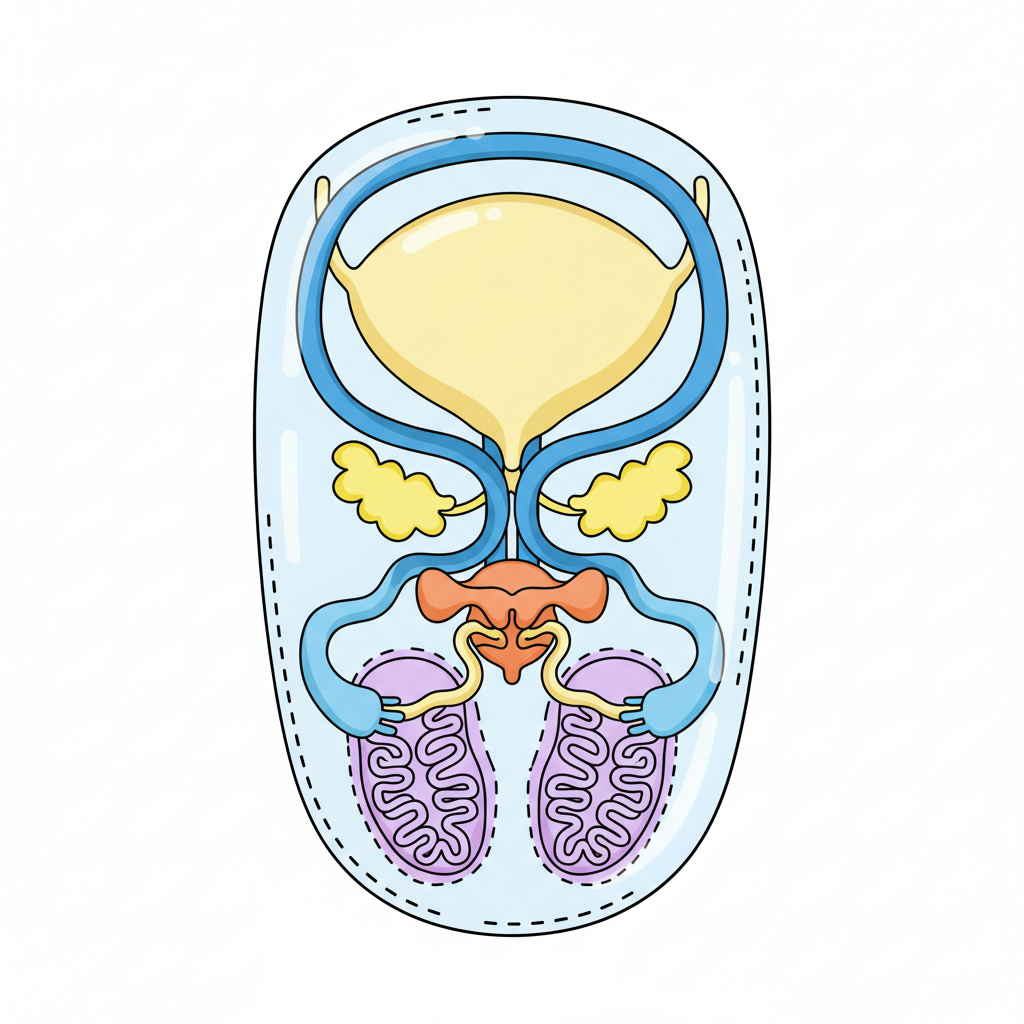
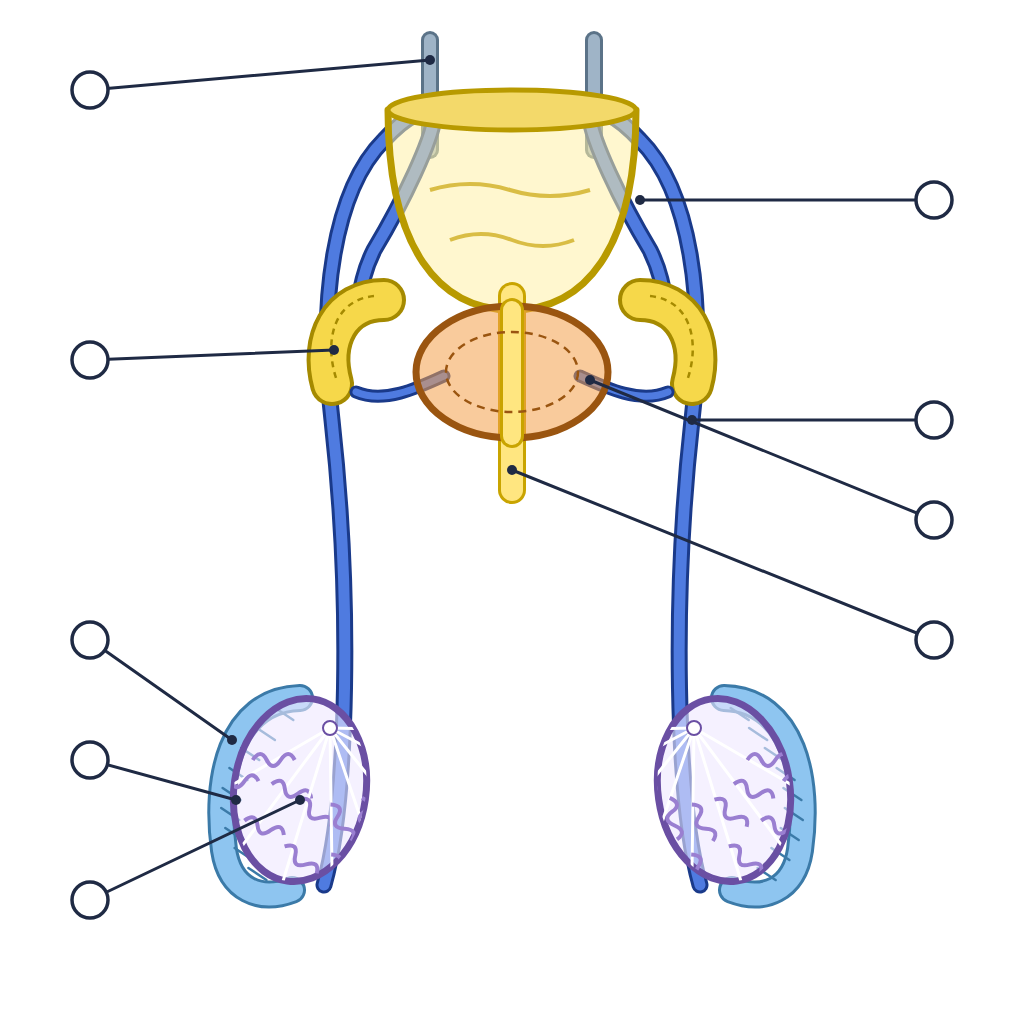
Replace the last failing Gemini slots with vector drawings
- Moon left/right limb views computed from real selenographic coordinates
  (checked against the Clementine photos p04/p05).
- Mud crab seen from behind, female Aedes seen from below (ventral),
  male reproductive organs illustration (p02), planet discs.
- Old Gemini results archived as *.lama*.png with their verdicts.
- No slot is left at status salah; turnaround sheets rebuilt.

Organ, bone and reproduction pictures still need science-teacher sign-off.

diff --git a/osn-app/image-results/_STATUS.md b/osn-app/image-results/_STATUS.md
@@ -2,7 +2,7 @@
 
 Di-generate oleh `image-prompts/_src/gen.mjs`. Jangan edit manual. Hasil review disimpan di `_review.json`.
 Keterangan: ⬜ belum ada gambar · 🔍 ada gambar, belum direview · ✅ lolos · ⚠ perlu revisi · ❌ salah (generate ulang)
-**Total:** 1985/2092 slot terisi · 1951/2092 lolos review
+**Total:** 1996/2092 slot terisi · 1964/2092 lolos review
 
 ## IPA 01 · Makhluk Hidup & Lingkungan
 
@@ -44,14 +44,14 @@ Keterangan: ⬜ belum ada gambar · 🔍 ada gambar, belum direview · ✅ lolos
 | [Bekicot / siput (moluska)](ipa/01-makhluk-hidup/bekicot/) | 8/10 | 8/10 |  |
 | [Cumi-cumi (moluska)](ipa/01-makhluk-hidup/cumi-cumi/) | 10/10 | 10/10 |  |
 | [Kerang (moluska)](ipa/01-makhluk-hidup/kerang/) | 10/10 | 10/10 |  |
-| [Kepiting (crustacea)](ipa/01-makhluk-hidup/kepiting/) | 10/10 | 8/10 | p06-ilustrasi-turnaround: ⚠ revisi — Tampak tidak konsisten. Prompt: "Four copies: front, back, left profile, right profile."<br>p08-ilustrasi-belakang: ❌ salah — GAGAL 5x berturut-turut (chained awal x2, rewrite field-f x1, rewrite standalone eksplisit 'NEITHER eye visible, NEITHER claw visible, smooth rear edge not serrated' x2) -- model TETAP menggambar komposisi tampak depan: tepi karapas bergerigi jelas terlihat, dua mata di sela gerigi, dua capit besar membuka penuh di bawah. Sama persis pola kegagalan jantung (5x gagal, limitasi model bukan prompt). Diserahkan ke pencarian stok (CC0/PD) atau vektor skematik (bukan hewan realistis, tapi versi ilustrasi B mungkin masih bisa coba vektor siluet kepiting dari belakang jika osn-app-7a berminat). |
+| [Kepiting (crustacea)](ipa/01-makhluk-hidup/kepiting/) | 10/10 | 10/10 |  |
 | [Laba-laba (arachnida)](ipa/01-makhluk-hidup/laba-laba/) | 10/10 | 10/10 |  |
-| [Semut (insecta)](ipa/01-makhluk-hidup/semut/) | 10/10 | 8/10 | p01-realistis-turnaround: ⚠ revisi — Keempat salinan identik (tampak atas). Prompt: "Four copies: front, back, left profile, right profile."<br>p06-ilustrasi-turnaround: ⚠ revisi — Tampak depan dobel. Prompt: "Four copies: front, back, left profile, right profile." |
+| [Semut (insecta)](ipa/01-makhluk-hidup/semut/) | 10/10 | 10/10 |  |
 | [Lebah madu (insecta, penyerbuk)](ipa/01-makhluk-hidup/lebah/) | 10/10 | 8/10 | p01-realistis-turnaround: ⚠ revisi — Kedua profil menghadap ke kiri; profil kanan tidak ada. Prompt: "Third copy head pointing LEFT, fourth copy head pointing RIGHT."<br>p03-realistis-belakang: ⚠ revisi — Konten benar (lebah dari belakang: ujung perut + sengat paling dekat, kepala kecil + antena bersiku di ujung jauh, 4 sayap terlipat, 6 kaki, keranjang serbuk sari) tetapi file ini gambar VEKTOR datar, bukan foto ultra-realistis seperti p02/p04/p05 — gaya tidak konsisten dengan set realistis (permintaan reviewer osn-app-ce). Tidak diterbitkan app. Perbaikan: foto tampak belakang lebah madu CC0/PD (belum ditemukan di Commons) atau generasi foto realistis baru dengan acuan depan satu-giliran. |
 | [Belalang (metamorfosis tidak sempurna)](ipa/01-makhluk-hidup/belalang/) | 11/12 | 10/12 | p06-ilustrasi-turnaround: ⚠ revisi — Tampak tidak konsisten (ventral, dorsal, samping, dorsal); profil kanan tidak ada. Prompt: "Four copies: front, back, left profile, right profile." |
 | [Kecoak (metamorfosis tidak sempurna)](ipa/01-makhluk-hidup/kecoak/) | 9/10 | 8/10 | p01-realistis-turnaround: ⚠ revisi — Keempat salinan identik (tampak atas). Prompt: "Four copies: front (head toward camera, eye level), back, left profile, right profile."<br>p03-realistis-belakang: ❌ salah — GAGAL 4x berturut-turut (chained awal, rewrite standalone cerci-prominent, rewrite kedua dengan framing kaki-belakang-besar yang BERHASIL untuk versi ilustrasi p08 -- tapi versi fotorealistis tetap kembali ke pose dorsal depan: antena panjang di atas, mata majemuk menghadap kamera, tidak ada rotasi sama sekali). Model foto-realistis tampak lebih kuat 'berpegang' pada komposisi studio-photo kanonis dibanding model ilustrasi untuk objek ini. Limitasi model, sama kategori dengan jantung/bulan-p09/lebah-p03. Opsi: vektor (gaya fotoreal sulit direplikasi vektor, resiko mismatch gaya seperti lebah p03) atau coba sekali lagi dengan model berbeda di masa depan. |
 | [Capung](ipa/01-makhluk-hidup/capung/) | 10/10 | 10/10 |  |
-| [Nyamuk Aedes aegypti (vektor DBD)](ipa/01-makhluk-hidup/nyamuk-aedes/) | 10/10 | 6/10 | p01-realistis-turnaround: ⚠ revisi — Ilmiah benar (pola lira putih di toraks, kaki bergelang putih, antena betina berambut jarang, 6 kaki), tetapi ada garis pembatas panel padahal dilarang. Kecil; bisa dipakai setelah dipotong per panel, atau generate ulang dengan template baru.<br>p03-realistis-belakang: ❌ salah — GAGAL 3x (field-f diperkuat dengan deskripsi ventral eksplisit berhasil mengubah WARNA jadi pucat krem sesuai perut ventral, TAPI pose/framing tetap sama persis dengan tampak depan: mata majemuk menghadap kamera, kaki simetris terentang, sayap terbentang penuh dengan venasi terlihat jelas -- bukan rotasi 180 derajat sungguhan ke sisi bawah. Sama seperti bug p08. Dikonfirmasi osn-app-7a: tidak ada foto stok CC0/PD untuk tampak ventral nyamuk. Diserahkan ke vektor jika osn-app-7a berminat, atau tetap salah.<br>p06-ilustrasi-turnaround: ⚠ revisi — 5 panel (seharusnya tepat 4), tersusun 2 baris. Isi ilmiah benar. Generate ulang dengan template baru.<br>p08-ilustrasi-belakang: ❌ salah — GAGAL 4x (percobaan terbaru adalah efek samping regenerasi p03, bukan diminta eksplisit) -- tetap pose dorsal simetris identik dengan tampak depan, tidak ada rotasi ke ventral. Dikonfirmasi osn-app-7a: tidak ada foto stok CC0/PD untuk tampak ventral nyamuk. Diserahkan ke vektor jika osn-app-7a berminat, atau tetap salah. |
+| [Nyamuk Aedes aegypti (vektor DBD)](ipa/01-makhluk-hidup/nyamuk-aedes/) | 10/10 | 8/10 | p01-realistis-turnaround: ⚠ revisi — Ilmiah benar (pola lira putih di toraks, kaki bergelang putih, antena betina berambut jarang, 6 kaki), tetapi ada garis pembatas panel padahal dilarang. Kecil; bisa dipakai setelah dipotong per panel, atau generate ulang dengan template baru.<br>p03-realistis-belakang: ⚠ revisi — Konten benar (tampak bawah/ventral nyamuk Aedes betina: perut dan dada krem, 6 kaki bercincin putih, belalai, antena betina berambut jarang, halter, sayap terlipat) tetapi file ini gambar VEKTOR datar, bukan foto makro realistis seperti p02/p04/p05 — gaya tidak konsisten dengan set realistis. Tidak diterbitkan app (belakang tidak dipakai). Perbaikan: foto makro ventral nyamuk CC0/PD (belum ditemukan) atau biarkan sebagai pelengkap set. |
 | [Lalat rumah (vektor)](ipa/01-makhluk-hidup/lalat/) | 10/10 | 10/10 |  |
 | [Metamorfosis sempurna kupu-kupu (4 tahap)](ipa/01-makhluk-hidup/daur-kupu-kupu-set/) | 2/2 | 2/2 |  |
 | [Kupu-kupu dewasa (imago)](ipa/01-makhluk-hidup/kupu-kupu/) | 10/10 | 10/10 |  |
@@ -83,7 +83,7 @@ Keterangan: ⬜ belum ada gambar · 🔍 ada gambar, belum direview · ✅ lolos
 | [Kantong semar (tumbuhan karnivora)](ipa/01-makhluk-hidup/kantong-semar/) | 12/12 | 12/12 |  |
 | [Putri malu (peka rangsang)](ipa/01-makhluk-hidup/putri-malu/) | 1/2 | 1/2 |  |
 | [Anggrek bulan (epifit, puspa pesona)](ipa/01-makhluk-hidup/anggrek-bulan/) | 10/10 | 10/10 |  |
-| [Rafflesia arnoldii (puspa langka)](ipa/01-makhluk-hidup/rafflesia/) | 5/10 | 3/10 | p01-realistis-turnaround: ⚠ revisi — Tampak tidak lengkap (depan muncul 2 kali). Prompt: "Exactly four copies: front (top), back (underside), left side, right side."<br>p06-ilustrasi-turnaround: ⚠ revisi — 1 depan + 3 samping mirip kuncup. Prompt: "Four copies: top, underside, left side, right side of a fully open five-lobed flower." |
+| [Rafflesia arnoldii (puspa langka)](ipa/01-makhluk-hidup/rafflesia/) | 8/10 | 3/10 | p01-realistis-turnaround: ⚠ revisi — Tampak tidak lengkap (depan muncul 2 kali). Prompt: "Exactly four copies: front (top), back (underside), left side, right side."<br>p03-realistis-belakang: 🔍 belum direview<br>p04-realistis-kiri: 🔍 belum direview<br>p06-ilustrasi-turnaround: ⚠ revisi — 1 depan + 3 samping mirip kuncup. Prompt: "Four copies: top, underside, left side, right side of a fully open five-lobed flower."<br>p08-ilustrasi-belakang: 🔍 belum direview |
 | [Bunga bangkai (Amorphophallus titanum)](ipa/01-makhluk-hidup/bunga-bangkai/) | 10/10 | 10/10 |  |
 | [Benalu pada ranting (parasit)](ipa/01-makhluk-hidup/benalu/) | 10/10 | 10/10 |  |
 | [Lumut kerak (lichen, simbiosis)](ipa/01-makhluk-hidup/lichen/) | 10/10 | 10/10 |  |
@@ -136,8 +136,8 @@ Keterangan: ⬜ belum ada gambar · 🔍 ada gambar, belum direview · ✅ lolos
 | [Lidah (indera pengecap)](ipa/02-tubuh-manusia/lidah/) | 12/12 | 12/12 |  |
 | [Lambung](ipa/02-tubuh-manusia/lambung/) | 12/12 | 12/12 |  |
 | [Hati & kantong empedu](ipa/02-tubuh-manusia/hati-empedu/) | 12/12 | 12/12 |  |
-| [Pankreas](ipa/02-tubuh-manusia/pankreas/) | 6/12 | 4/12 | p01-realistis-turnaround: ⚠ revisi — Ada teks FRONT/BACK/LEFT SIDE/RIGHT dan keempat salinan sama. Prompt: "No text; anterior, posterior, left, right views."<br>p06-ilustrasi-turnaround: ⚠ revisi — Ada teks (Front view, Back view, ...) dan 2 baris. Prompt: "Four copies in one row, no text." |
-| [Usus halus & usus besar (dengan umbai cacing)](ipa/02-tubuh-manusia/usus-halus-besar/) | 11/12 | 9/12 | p06-ilustrasi-turnaround: ⚠ revisi — Ada teks Front/Back/Left side/Right. Prompt: "No text."<br>p08-ilustrasi-belakang: ⚠ revisi — Slot kosong sebelumnya, diisi. MASALAH ANATOMI: sekum/apendiks (struktur sisi KANAN tubuh pasien) muncul di sisi KIRI gambar -- posisi identik dengan p07 (depan). Padahal untuk tampak BELAKANG (dari balik tubuh), konvensi kiri-kanan terbalik dari tampak depan (sisi kanan pasien yang di tampak depan muncul di kiri-penampil, di tampak belakang muncul di KANAN-penampil, karena penampil berputar menghadap arah berlawanan). p08 seharusnya menunjukkan sekum di KANAN gambar (cerminan dari p07), bukan di kiri seperti sekarang -- ini duplikat posisi, bukan rotasi anatomis yang benar. Prompt koreksi: "Mirror the entire internal organ layout left-to-right compared to the front view -- the cecum and appendix must appear on the RIGHT side of this back-view image (opposite side from the front view), reflecting the anatomical left/right flip between anterior and posterior views." |
+| [Pankreas](ipa/02-tubuh-manusia/pankreas/) | 8/12 | 4/12 | p01-realistis-turnaround: ⚠ revisi — Ada teks FRONT/BACK/LEFT SIDE/RIGHT dan keempat salinan sama. Prompt: "No text; anterior, posterior, left, right views."<br>p03-realistis-belakang: 🔍 belum direview<br>p04-realistis-kiri: 🔍 belum direview<br>p06-ilustrasi-turnaround: ⚠ revisi — Ada teks (Front view, Back view, ...) dan 2 baris. Prompt: "Four copies in one row, no text." |
+| [Usus halus & usus besar (dengan umbai cacing)](ipa/02-tubuh-manusia/usus-halus-besar/) | 12/12 | 10/12 | p06-ilustrasi-turnaround: ⚠ revisi — Ada teks Front/Back/Left side/Right. Prompt: "No text."<br>p08-ilustrasi-belakang: ⚠ revisi — GAGAL 2x memperbaiki posisi sekum/apendiks (field-f dgn instruksi 'mirror' abstrak, lalu rewrite standalone dgn instruksi posisi eksplisit 'RIGHT-hand side, 2-3 o'clock') -- model TETAP menempatkan sekum di KIRI gambar, identik dgn p07 (depan), setiap kali. Bias model yang kuat terhadap satu layout tetap, terlepas dari instruksi depan/belakang. Konten lain (usus halus melingkar di tengah, usus besar haustra membingkai) benar, hanya posisi sekum yang perlu dicek/diperbaiki jika memungkinkan via pendekatan lain (vektor?). Tidak mengulang approach prompt lagi -- sudah 2x gagal persis sama. |
 | [Vili usus halus (jonjot penyerapan)](ipa/02-tubuh-manusia/vili-usus/) | 3/4 | 3/4 |  |
 | [Sistem pernapasan (laring → paru-paru)](ipa/02-tubuh-manusia/sistem-pernapasan/) | 12/12 | 12/12 |  |
 | [Paru-paru](ipa/02-tubuh-manusia/paru-paru/) | 12/12 | 12/12 |  |
@@ -158,15 +158,15 @@ Keterangan: ⬜ belum ada gambar · 🔍 ada gambar, belum direview · ✅ lolos
 | [Telinga (luar, tengah, dalam)](ipa/02-tubuh-manusia/telinga/) | 4/4 | 4/4 |  |
 | [Penampang hidung (indera pembau)](ipa/02-tubuh-manusia/hidung-penampang/) | 4/4 | 4/4 |  |
 | [Kerangka manusia lengkap](ipa/02-tubuh-manusia/kerangka-manusia/) | 8/10 | 7/10 | p06-ilustrasi-turnaround: ⚠ revisi — Set turnaround ini jauh lebih baik dari p01: panel 1 (depan), panel 2 (belakang, tengkorak dari belakang), dan panel 3 (profil KIRI, tengkorak terlihat dari samping dengan rahang dan kurva tulang belakang) semuanya benar dan jelas berbeda satu sama lain. TAPI panel 4 (seharusnya profil KANAN, cerminan panel 3) malah menampilkan TAMPAK BELAKANG lagi (duplikat dari panel 2), bukan profil samping kanan. WAJIB dicek oleh guru sains. Saran prompt koreksi (EN): "Regenerate panel 4 (RIGHT) as a true mirror of panel 3's left side profile — head/face pointing right, seen edge-on — not a repeat of the back/posterior view already shown in panel 2." |
-| [Tengkorak](ipa/02-tubuh-manusia/tengkorak/) | 10/10 | 9/10 | p06-ilustrasi-turnaround: ⚠ revisi — Panel 1 (depan) dan panel 2 (belakang) sudah benar berbeda. Tapi panel 3 (kiri) dan panel 4 (kanan) sama-sama menampilkan wajah/hidung menghadap ke arah yang SAMA (kiri), bukan cerminan satu sama lain — tampak kanan seharusnya wajah menghadap ke kanan (mirror dari tampak kiri). Panel 4 terlihat seperti duplikasi profil kiri, bukan tampak kanan yang genuin. English correction prompt: 'Panel 4 (right profile) must show the skull facing the OPPOSITE direction from panel 3 (left profile) — a true mirror-image right lateral view, not a repeat of the left profile.' |
+| [Tengkorak](ipa/02-tubuh-manusia/tengkorak/) | 10/10 | 10/10 |  |
 | [Tulang belakang](ipa/02-tubuh-manusia/tulang-belakang/) | 12/12 | 12/12 |  |
 | [Rongga dada (tulang rusuk & dada)](ipa/02-tubuh-manusia/tulang-rusuk/) | 10/10 | 5/10 | p01-realistis-turnaround: ⚠ revisi — Panel 1 (depan), panel 2 (belakang), dan panel 3 (kiri/profil) sudah berbeda dan benar secara genuin (wajah dari depan, tengkorak dari belakang, profil dengan tulang belakang melengkung terlihat). Tapi panel 4 (seharusnya kanan) tampak mengulang tampak belakang (tengkorak dari belakang, skapula terlihat) seperti panel 2, bukan cerminan profil kanan yang berbeda dari panel 3. English correction prompt: 'Panel 4 must be a genuine RIGHT lateral profile view (mirror of panel 3's left profile), not a repeat of panel 2's posterior view.'<br>p02-realistis-depan: ⚠ revisi — Gambar vektor datar (bukan Gemini) via vektor-ipa.mjs. Isi: 12 pasang rusuk (7 sejati menyambung ke tulang dada lewat tulang rawan biru, 3 palsu bersambung ke tulang rawan di atasnya, 2 melayang pendek), tulang dada (manubrium, badan, prosesus xifoid), 12 ruas tulang belakang dada. Tampak depan: isi sains benar tetapi gaya datar vektor ada di slot "realistis" (bukan foto). Boleh dipakai bila gaya datar diterima; kalau mau foto asli, generate ulang di Gemini: "photorealistic human rib cage skeleton, depan view, full thoracic cage with sternum and costal cartilage, solid white background, no text".<br>p03-realistis-belakang: ⚠ revisi — Gambar vektor datar (bukan Gemini) via vektor-ipa.mjs. Isi: 12 pasang rusuk (7 sejati menyambung ke tulang dada lewat tulang rawan biru, 3 palsu bersambung ke tulang rawan di atasnya, 2 melayang pendek), tulang dada (manubrium, badan, prosesus xifoid), 12 ruas tulang belakang dada. Tampak belakang: isi sains benar tetapi gaya datar vektor ada di slot "realistis" (bukan foto). Boleh dipakai bila gaya datar diterima; kalau mau foto asli, generate ulang di Gemini: "photorealistic human rib cage skeleton, belakang view, full thoracic cage with sternum and costal cartilage, solid white background, no text".<br>p04-realistis-kiri: ⚠ revisi — Gambar vektor datar (bukan Gemini) via vektor-ipa.mjs. Isi: 12 pasang rusuk (7 sejati menyambung ke tulang dada lewat tulang rawan biru, 3 palsu bersambung ke tulang rawan di atasnya, 2 melayang pendek), tulang dada (manubrium, badan, prosesus xifoid), 12 ruas tulang belakang dada. Tampak kiri: isi sains benar tetapi gaya datar vektor ada di slot "realistis" (bukan foto). Boleh dipakai bila gaya datar diterima; kalau mau foto asli, generate ulang di Gemini: "photorealistic human rib cage skeleton, kiri view, full thoracic cage with sternum and costal cartilage, solid white background, no text".<br>p05-realistis-kanan: ⚠ revisi — Gambar vektor datar (bukan Gemini) via vektor-ipa.mjs. Isi: 12 pasang rusuk (7 sejati menyambung ke tulang dada lewat tulang rawan biru, 3 palsu bersambung ke tulang rawan di atasnya, 2 melayang pendek), tulang dada (manubrium, badan, prosesus xifoid), 12 ruas tulang belakang dada. Tampak kanan: isi sains benar tetapi gaya datar vektor ada di slot "realistis" (bukan foto). Boleh dipakai bila gaya datar diterima; kalau mau foto asli, generate ulang di Gemini: "photorealistic human rib cage skeleton, kanan view, full thoracic cage with sternum and costal cartilage, solid white background, no text". |
 | [Tulang pipa (femur) & penampangnya](ipa/02-tubuh-manusia/tulang-paha-penampang/) | 4/4 | 4/4 |  |
 | [Jenis sendi: peluru, engsel, putar, pelana](ipa/02-tubuh-manusia/sendi-set/) | 4/4 | 4/4 |  |
-| [Otot lengan bisep & trisep (antagonis)](ipa/02-tubuh-manusia/otot-lengan/) | 7/12 | 5/12 | p01-realistis-turnaround: ⚠ revisi — Keempat panel (seharusnya depan/bisep, belakang/trisep, kiri, kanan) menampilkan pose dan tonjolan otot yang HAMPIR IDENTIK — semuanya menunjukkan sisi dengan tonjolan bisep yang sama menghadap kamera, tidak ada panel yang jelas menunjukkan sisi trisep (belakang) yang seharusnya berbeda bentuk (otot trisep berbentuk tapal kuda, bukan tonjolan bisep). Rotasi turnaround gagal total. WAJIB dicek guru sains. Saran prompt koreksi (EN): "Regenerate with four genuinely distinct panels: FRONT showing the biceps bulge, BACK showing the horseshoe-shaped triceps (different muscle shape, no biceps peak visible), and LEFT/RIGHT showing true lateral/medial profiles — all four panels currently show the same biceps-side view."<br>p06-ilustrasi-turnaround: ⚠ revisi — Sama seperti p01 (versi realistis) — keempat panel ilustrasi menampilkan pose dan tonjolan bisep yang identik, tidak ada panel trisep (belakang) yang jelas berbeda bentuk. WAJIB dicek guru sains. Saran prompt koreksi sama seperti p01 (EN di atas). |
+| [Otot lengan bisep & trisep (antagonis)](ipa/02-tubuh-manusia/otot-lengan/) | 10/12 | 5/12 | p01-realistis-turnaround: ⚠ revisi — Keempat panel (seharusnya depan/bisep, belakang/trisep, kiri, kanan) menampilkan pose dan tonjolan otot yang HAMPIR IDENTIK — semuanya menunjukkan sisi dengan tonjolan bisep yang sama menghadap kamera, tidak ada panel yang jelas menunjukkan sisi trisep (belakang) yang seharusnya berbeda bentuk (otot trisep berbentuk tapal kuda, bukan tonjolan bisep). Rotasi turnaround gagal total. WAJIB dicek guru sains. Saran prompt koreksi (EN): "Regenerate with four genuinely distinct panels: FRONT showing the biceps bulge, BACK showing the horseshoe-shaped triceps (different muscle shape, no biceps peak visible), and LEFT/RIGHT showing true lateral/medial profiles — all four panels currently show the same biceps-side view."<br>p04-realistis-kiri: 🔍 belum direview<br>p05-realistis-kanan: 🔍 belum direview<br>p06-ilustrasi-turnaround: ⚠ revisi — Sama seperti p01 (versi realistis) — keempat panel ilustrasi menampilkan pose dan tonjolan bisep yang identik, tidak ada panel trisep (belakang) yang jelas berbeda bentuk. WAJIB dicek guru sains. Saran prompt koreksi sama seperti p01 (EN di atas).<br>p08-ilustrasi-belakang: 🔍 belum direview |
 | [3 jenis otot: lurik, polos, jantung](ipa/02-tubuh-manusia/jenis-otot-set/) | 2/2 | 2/2 |  |
-| [Organ reproduksi wanita (internal)](ipa/02-tubuh-manusia/reproduksi-wanita/) | 12/12 | 11/12 | p06-ilustrasi-turnaround: ⚠ revisi — Tampak depan muncul 3 kali. Prompt: "Four copies: anterior, posterior, left lateral, right lateral." |
-| [Organ reproduksi pria (internal, testis & saluran)](ipa/02-tubuh-manusia/reproduksi-pria/) | 3/4 | 3/4 |  |
+| [Organ reproduksi wanita (internal)](ipa/02-tubuh-manusia/reproduksi-wanita/) | 12/12 | 12/12 |  |
+| [Organ reproduksi pria (internal, testis & saluran)](ipa/02-tubuh-manusia/reproduksi-pria/) | 4/4 | 4/4 |  |
 | [Sel kelamin: sperma & ovum (pembuahan)](ipa/02-tubuh-manusia/sperma-ovum/) | 4/4 | 4/4 |  |
 | [Janin dalam rahim (perkembangan)](ipa/02-tubuh-manusia/janin-rahim/) | 2/2 | 2/2 |  |
 | [Isi Piringku (gizi seimbang)](ipa/02-tubuh-manusia/isi-piringku/) | 2/2 | 2/2 |  |
@@ -307,7 +307,7 @@ Keterangan: ⬜ belum ada gambar · 🔍 ada gambar, belum direview · ✅ lolos
 | [Merkurius](ipa/05-bumi-antariksa/merkurius/) | 6/10 | 6/10 |  |
 | [Venus](ipa/05-bumi-antariksa/venus/) | 7/10 | 7/10 |  |
 | [Bumi](ipa/05-bumi-antariksa/bumi/) | 4/10 | 4/10 |  |
-| [Bulan](ipa/05-bumi-antariksa/bulan/) | 11/12 | 9/12 | p09-ilustrasi-kiri: ❌ salah — GAGAL 3x berturut-turut (konten chained awal, rewrite standalone attempt 1 dgn bg putih salah, attempt 2 dgn bg hitam benar tapi pola kawah TETAP meniru pola full-moon near-side ikonik yang sama persis dengan p07 depan -- mare besar atas-kiri + kawah bercahaya Tycho-style di bawah). Model terus default ke gambar bulan purnama ikonik terlepas dari instruksi hemisfer 90-barat. Sama seperti bug jantung p04/08/09/10 -- limitasi model, bukan prompt. Diserahkan ke pencarian stok (CC0/PD) seperti item lain di daftar.<br>p10-ilustrasi-kanan: ⚠ revisi — Fraksi area gelap = 9.3%, jauh lebih terang dari depan (43.2%), konsisten dengan highlands sisi limb timur, dan tidak ada artefak aneh seperti p09. Namun saya tidak bisa memastikan pola Mare Crisium yang bulat khas benar-benar tergambar akurat, hanya terlihat dark patch generik di beberapa titik. Perlu dicek manusia terhadap citra limb timur asli. |
+| [Bulan](ipa/05-bumi-antariksa/bulan/) | 12/12 | 12/12 |  |
 | [Mars](ipa/05-bumi-antariksa/mars/) | 10/12 | 10/12 |  |
 | [Jupiter](ipa/05-bumi-antariksa/jupiter/) | 8/12 | 8/12 |  |
 | [Saturnus](ipa/05-bumi-antariksa/saturnus/) | 10/10 | 10/10 |  |

diff --git a/CLAUDE.md b/CLAUDE.md
@@ -82,7 +82,7 @@ Every object must be verified against web sources before the user generates it.
 - **Billing:** Google Cloud free-trial credits do **not** apply to the Gemini API / AI Studio (excluded since March 2026). Use `--vertex` instead. It calls Vertex AI in project `project-a087bc92-937b-4ba3-859` (account azukanurunara94@gmail.com), with auth from the separate gcloud configuration `osn-sd` via `gcloud auth print-access-token`, and no API key. Never touch the `default` gcloud config, which belongs to an unrelated client project. Whether Vertex usage is actually deducted from the free-trial credits must be confirmed in Billing → Reports before any large run.
 - Turnaround sheets are **not generated** (every model kept getting the 4 panels wrong: duplicate fronts, both profiles facing the same way, 3/4 angles). The generator skips them unless `--turnaround`. Run `python image-prompts/_src/montase-turnaround.py` (from `osn-app/`) after a review round: it builds each turnaround from the four single views (depan, belakang, kiri, kanan) once all four are `ok`, and records an `ok` verdict that says it was assembled.
 - Redoing rejected slots: move the image to `*.lama.png` and its verdict to `"<key>.lama"`, then run with `--fix --slots …`. `--fix` appends the quoted English correction prompts from the `.lama` verdict to the prompt. Slots in the same session that are not being redone are fed back as context, not regenerated, so approved images are never overwritten. Vertex model names have no `-preview` suffix (`gemini-3.1-flash-image`, `gemini-3-pro-image`).
-- MTK precision props (dadu, spinner, jam-analog, tangram, sempoa, speedometer, kubus, balok, limas-segitiga, limas-segiempat, prisma-segitiga, kerucut p02–p05, bola, bangun-ruang-set, bangun-datar-set, alat-geometri-set, geoboard, batang-korek-pola, cokelat-batang, kue-bolu-pecahan p01, jaring-jaring-kubus, kubus-satuan, kartu-bernomor, susunan-pola-bola, timbangan-aljabar, pizza-pecahan p01) and IPA props where wiring, counts or geometry kept failing (rangkaian-seri, rangkaian-paralel, periskop p11–p12, baterai-set p03–p04, katrol-bergerak, katrol-tetap all eight views, kompas p01; and, drawn by `image-prompts/_src/vektor-ipa.mjs`, ambulans-doppler, distilasi, kromatografi p02, model-atom p04, slinki p02, termos-penampang p03–p04, lensa-cembung-cekung-set, larutan-koloid-suspensi p03–p04, molekul-set p02, termometer-set p03, mikroskop p03/p11/p12, kamera-lubang-jarum p02, periskop p07–p10, bidang-miring-papan p10, dinamo-sepeda p09–p10, transformator p10–p11, kincir-angin p10, kipas-angin p05, bel-listrik p02, gelas-ukur p02–p05, stopwatch all views, neraca-ohauss all views, alat-gelas-lab-set p01, speaker-mikrofon-set p03, teropong-bintang p11–p12, tata-surya-deret, rasi-orion p01, fase-bulan-deret, bumi-lapisan p03–p04, jupiter p11–p12, profil-tanah, pelangi, gunung-meletus p03–p04, pasang-surut-set p02, telur-ayam p03–p04, penampang-daun p03–p04, akar-tunggang-serabut-set p04, sel-tumbuhan p09–p11, sel-hewan p02/p04/p05/p09/p10/p12, alveolus p03–p04, lambung p11, mata p11, mata-penampang p01–p03, ginjal-penampang p01, lebah p03/p08, jantung p04/p08/p09/p10, hati-empedu p09/p10, lidah p10, sistem-pernapasan p12, kentang-bertunas p12, vaksin-suntik p01, tingkatan-organisasi-makhluk-hidup-set p02, daur-katak-set p03–p04, tulang-rusuk all views, sistem-urinaria p07/p08/p11/p12, tulang-belakang p10–p12, tulang-paha-penampang p03–p04, reproduksi-pria p03–p04) are drawn as exact vectors by `node image-prompts/_src/vektor-mtk.mjs --install [--only=ids] [--empty]` (`--empty` fills only slots that have no picture yet) or, for the `vektor-ipa.mjs` ones, `node image-prompts/_src/vektor-ipa.mjs --install [--only=ids]`, not Gemini, which kept getting counts and angles wrong. Never regenerate those slots with gemini-gen; change the drawing code instead.
+- MTK precision props (dadu, spinner, jam-analog, tangram, sempoa, speedometer, kubus, balok, limas-segitiga, limas-segiempat, prisma-segitiga, kerucut p02–p05, bola, bangun-ruang-set, bangun-datar-set, alat-geometri-set, geoboard, batang-korek-pola, cokelat-batang, kue-bolu-pecahan p01, jaring-jaring-kubus, kubus-satuan, kartu-bernomor, susunan-pola-bola, timbangan-aljabar, pizza-pecahan p01) and IPA props where wiring, counts or geometry kept failing (rangkaian-seri, rangkaian-paralel, periskop p11–p12, baterai-set p03–p04, katrol-bergerak, katrol-tetap all eight views, kompas p01; and, drawn by `image-prompts/_src/vektor-ipa.mjs`, ambulans-doppler, distilasi, kromatografi p02, model-atom p04, slinki p02, termos-penampang p03–p04, lensa-cembung-cekung-set, larutan-koloid-suspensi p03–p04, molekul-set p02, termometer-set p03, mikroskop p03/p11/p12, kamera-lubang-jarum p02, periskop p07–p10, bidang-miring-papan p10, dinamo-sepeda p09–p10, transformator p10–p11, kincir-angin p10, kipas-angin p05, bel-listrik p02, gelas-ukur p02–p05, stopwatch all views, neraca-ohauss all views, alat-gelas-lab-set p01, speaker-mikrofon-set p03, teropong-bintang p11–p12, tata-surya-deret, rasi-orion p01, fase-bulan-deret, bumi-lapisan p03–p04, jupiter p11–p12, profil-tanah, pelangi, gunung-meletus p03–p04, pasang-surut-set p02, telur-ayam p03–p04, penampang-daun p03–p04, akar-tunggang-serabut-set p04, sel-tumbuhan p09–p11, sel-hewan p02/p04/p05/p09/p10/p12, alveolus p03–p04, lambung p11, mata p11, mata-penampang p01–p03, ginjal-penampang p01, lebah p03/p08, jantung p04/p08/p09/p10, hati-empedu p09/p10, lidah p10, sistem-pernapasan p12, kentang-bertunas p12, vaksin-suntik p01, tingkatan-organisasi-makhluk-hidup-set p02, daur-katak-set p03–p04, tulang-rusuk all views, sistem-urinaria p07/p08/p11/p12, tulang-belakang p10–p12, tulang-paha-penampang p03–p04, reproduksi-pria p02–p04, jupiter/merkurius/venus p08–p10, bulan p09–p10, kepiting p08, nyamuk-aedes p03/p08) are drawn as exact vectors by `node image-prompts/_src/vektor-mtk.mjs --install [--only=ids] [--empty]` (`--empty` fills only slots that have no picture yet) or, for the `vektor-ipa.mjs` ones, `node image-prompts/_src/vektor-ipa.mjs --install [--only=ids]`, not Gemini, which kept getting counts and angles wrong. Never regenerate those slots with gemini-gen; change the drawing code instead.
 - `--hemat` generates only the illustration front/top view plus the cut-open cross-section per object (~400 images). `--biaya` totals estimated cost from `image-results/_usage.jsonl`. Pricing per image (paid tier, 2026): Nano Banana `gemini-2.5-flash-image` $0.039 · Nano Banana 2 `gemini-3.1-flash-image` $0.067 (1K) · Nano Banana Pro `gemini-3-pro-image` $0.134 (1K/2K).
 
 ### Pictures in the app (`osn-app/scripts/build-objek-foto.mjs`)
